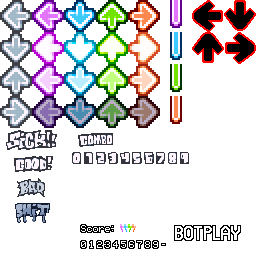
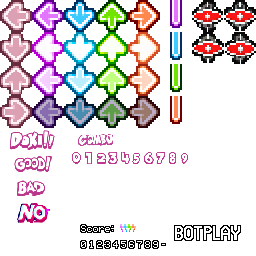
added yro'ue demise

Changed region(s): [[0.0, 0.0, 0.2188, 0.875], [0.75, 0.0, 1.0, 0.25], [0.2812, 0.5, 0.75, 0.6562]]

diff --git a/src/character/bigmpix.c b/src/character/bigmpix.c
@@ -58,10 +58,29 @@ static const CharFrame char_bigmpix_frame[] = {
 	
 	{bigmpix_ArcMain_hit1, {  0,   0, 92, 130}, { 68, 118}}, //12 right 1
 	{bigmpix_ArcMain_hit1, { 92,   0, 93, 129}, { 67, 117}}, //13 right 2
+
+	//alt stuffs
+	{bigmpix_ArcMain_hit2, {0, 121, 122, 116}, { 95, 104}}, //6 left 1
+	{bigmpix_ArcMain_hit2, {122, 119, 125, 117}, { 90, 105}}, //7 left 2
+	{bigmpix_ArcMain_hit3, {0,   0, 96, 127}, { 78, 116}}, //16 left 2
+	
+	{bigmpix_ArcMain_hit1, {0, 130, 99, 115}, { 79, 103}}, //8 down 1
+	{bigmpix_ArcMain_hit1, {99, 129, 85, 116}, { 71, 104}}, //9 down 2
+	{bigmpix_ArcMain_hit2, {0, 0, 96, 121}, { 72, 109}}, //8 down 1
+	{bigmpix_ArcMain_hit2, {96, 0, 82, 119}, { 69, 107}}, //9 down 2
+	
+	{bigmpix_ArcMain_hit4, {0,   0, 135, 122}, { 90, 119}}, //10 up 1
+	{bigmpix_ArcMain_hit4, {142,   0, 111, 119}, { 79, 116}}, //11 up 2
+	{bigmpix_ArcMain_hit4, {0,   122, 89, 119}, { 75, 116}}, //10 up 1
+	{bigmpix_ArcMain_hit4, {89,  121, 82, 119}, { 69, 119}}, //11 up 2
+	
+	{bigmpix_ArcMain_hit3, {96,   0, 108, 123}, { 86, 111}}, //12 right 1
+	{bigmpix_ArcMain_hit3, {0,   127, 99, 129}, { 80, 117}}, //13 right 2
+	{bigmpix_ArcMain_hit3, {99,  123, 98, 129}, { 84, 117}}, //13 right 2
 };
 
 static const Animation char_bigmpix_anim[CharAnim_Max] = {
-	{2, (const u8[]){ 0, 1, 2, 3, 4, 5, ASCR_BACK, 0}}, //CharAnim_Idle
+	{3, (const u8[]){ 0, 1, 2, 3, 4, 5, ASCR_BACK, 0}}, //CharAnim_Idle
 	{2, (const u8[]){ 6,  7, ASCR_BACK, 0}},             //CharAnim_Left
 	{0, (const u8[]){ASCR_CHGANI, CharAnim_Idle}},       //CharAnim_LeftAlt
 	{2, (const u8[]){ 8,  9, ASCR_BACK, 0}},             //CharAnim_Down
@@ -69,6 +88,18 @@ static const Animation char_bigmpix_anim[CharAnim_Max] = {
 	{2, (const u8[]){ 10, 11, ASCR_BACK, 0}},             //CharAnim_Up
 	{0, (const u8[]){ASCR_CHGANI, CharAnim_Idle}},       //CharAnim_UpAlt
 	{2, (const u8[]){ 12, 13, ASCR_BACK, 0}},             //CharAnim_Right
+	{0, (const u8[]){ASCR_CHGANI, CharAnim_Idle}},       //CharAnim_RightAlt
+};
+
+static const Animation char_bigmpix_animb[CharAnim_Max] = {
+	{3, (const u8[]){ 0, 1, 2, 3, 4, 5, ASCR_BACK, 0}}, //CharAnim_Idle
+	{2, (const u8[]){ 14,  15, 16,  ASCR_BACK, 0}},             //CharAnim_Left
+	{0, (const u8[]){ASCR_CHGANI, CharAnim_Idle}},       //CharAnim_LeftAlt
+	{2, (const u8[]){ 17,  18, 19, 20, ASCR_BACK, 0}},             //CharAnim_Down
+	{0, (const u8[]){ASCR_CHGANI, CharAnim_Idle}},       //CharAnim_DownAlt
+	{2, (const u8[]){ 21, 22, 23, 24, ASCR_BACK, 0}},             //CharAnim_Up
+	{0, (const u8[]){ASCR_CHGANI, CharAnim_Idle}},       //CharAnim_UpAlt
+	{2, (const u8[]){ 25, 26, 27, ASCR_BACK, 0}},             //CharAnim_Right
 	{0, (const u8[]){ASCR_CHGANI, CharAnim_Idle}},       //CharAnim_RightAlt
 };
 
@@ -91,12 +122,45 @@ void Char_bigmpix_Tick(Character *character)
 {
 	Char_bigmpix *this = (Char_bigmpix*)character;
 	
+	if (stage.song_step >= 131 && stage.song_step <= 132)
+		Animatable_Animate(&character->animatableb, (void*)this, Char_bigmpix_SetFrame);
+
+	else if (stage.song_step >= 442 && stage.song_step <= 452)
+		Animatable_Animate(&character->animatableb, (void*)this, Char_bigmpix_SetFrame);
+
+	else if (stage.song_step >= 543 && stage.song_step < 545)
+		Animatable_Animate(&character->animatableb, (void*)this, Char_bigmpix_SetFrame);
+
+	else if (stage.song_step >= 552 && stage.song_step < 553)
+		Animatable_Animate(&character->animatableb, (void*)this, Char_bigmpix_SetFrame);
+
+	else if (stage.song_step >= 555 && stage.song_step <= 556)
+		Animatable_Animate(&character->animatableb, (void*)this, Char_bigmpix_SetFrame);
+
+	else if (stage.song_step >= 557 && stage.song_step <= 576)
+		Animatable_Animate(&character->animatableb, (void*)this, Char_bigmpix_SetFrame);
+
+	else if (stage.song_step >= 653 && stage.song_step <= 655)
+		Animatable_Animate(&character->animatableb, (void*)this, Char_bigmpix_SetFrame);
+
+	else if (stage.song_step >= 691 && stage.song_step <= 701)
+		Animatable_Animate(&character->animatableb, (void*)this, Char_bigmpix_SetFrame);
+
+	else if (stage.song_step == 802)
+		Animatable_Animate(&character->animatableb, (void*)this, Char_bigmpix_SetFrame);
+	
+	else if (stage.song_step >= 818 && stage.song_step <= 821)
+		Animatable_Animate(&character->animatableb, (void*)this, Char_bigmpix_SetFrame);
+
+
+	else
+		Animatable_Animate(&character->animatable, (void*)this, Char_bigmpix_SetFrame);
+
 	//Perform idle dance
 	if ((character->pad_held & (INPUT_LEFT | INPUT_DOWN | INPUT_UP | INPUT_RIGHT)) == 0)
 		Character_PerformIdle(character);
 	
 	//Animate and draw
-	Animatable_Animate(&character->animatable, (void*)this, Char_bigmpix_SetFrame);
 	Character_Draw(character, &this->tex, &char_bigmpix_frame[this->frame]);
 }
 
@@ -104,6 +168,7 @@ void Char_bigmpix_SetAnim(Character *character, u8 anim)
 {
 	//Set animation
 	Animatable_SetAnim(&character->animatable, anim);
+	Animatable_SetAnim(&character->animatableb, anim);
 	Character_CheckStartSing(character);
 }
 
@@ -132,6 +197,7 @@ Character *Char_bigmpix_New(fixed_t x, fixed_t y)
 	this->character.free = Char_bigmpix_Free;
 	
 	Animatable_Init(&this->character.animatable, char_bigmpix_anim);
+	Animatable_Init(&this->character.animatableb, char_bigmpix_animb);
 	Character_Init((Character*)this, x, y);
 	
 	//Set character information

diff --git a/src/stage/week2.c b/src/stage/week2.c
@@ -24,6 +24,29 @@ typedef struct
 } Back_week2;
 
 //Week 6 background functions
+void Back_week2_DrawFG(StageBack *back)
+{
+	Back_week2 *this = (Back_week2*)back;
+	
+	fixed_t fx, fy;
+
+	//Draw black
+	RECT black_src = {254, 254, 2, 2};
+	RECT_FIXED black_dst = {
+		FIXED_DEC(-90,1),
+		FIXED_DEC(-90,1),
+		FIXED_DEC(400,1),
+		FIXED_DEC(400,1)
+	};
+
+	if (stage.song_step <= 131)
+		Stage_DrawTex(&this->tex_back0, &black_src, &black_dst, stage.camera.bzoom);
+	if (stage.song_step >= 897)
+		Stage_DrawTex(&this->tex_back0, &black_src, &black_dst, stage.camera.bzoom);
+	
+}
+
+
 void Back_week2_DrawBG(StageBack *back)
 {
 	Back_week2 *this = (Back_week2*)back;
@@ -75,7 +98,7 @@ StageBack *Back_week2_New(void)
 		return NULL;
 	
 	//Set background functions
-	this->back.draw_fg = NULL;
+	this->back.draw_fg = Back_week2_DrawFG;
 	this->back.draw_md = NULL;
 	this->back.draw_bg = Back_week2_DrawBG;
 	this->back.free = Back_week2_Free;
